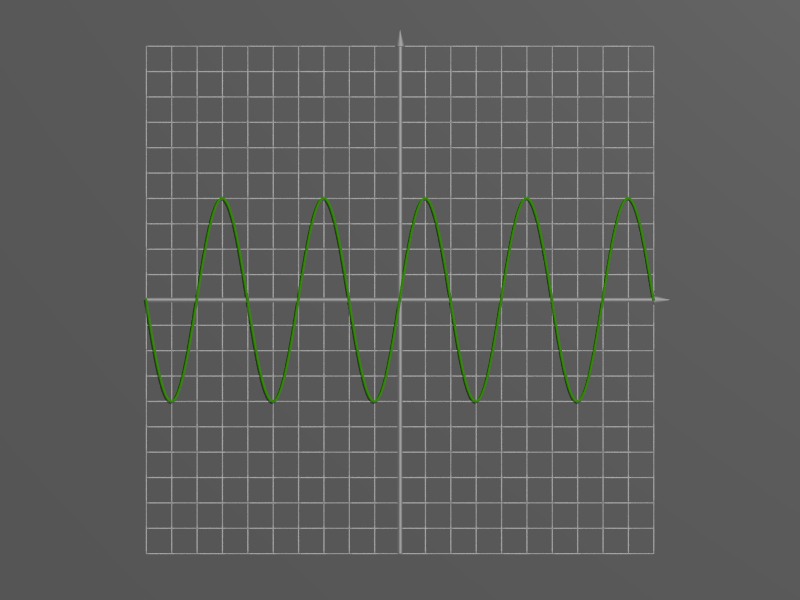
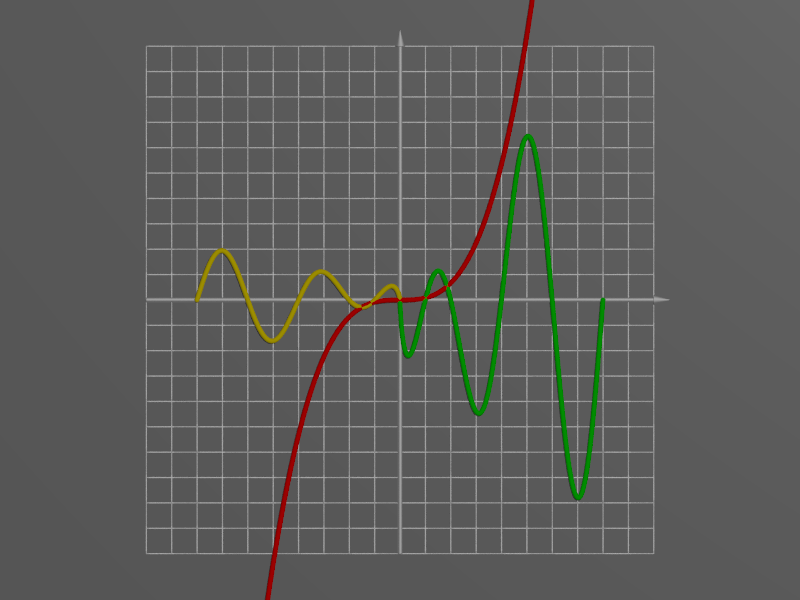
Function 'name'

diff --git a/examples/function2D.m b/examples/function2D.m
@@ -93,12 +93,22 @@ tex_grid_blue  = pov.declare("tex_grid_blue",  pov.texture('pigment', [0.0 0.0 1
 pov.grid_2D('width', 20, 'height', 20, 'rotate', [90 0  0], 'translate', [0 0 0]);
 
 % Objects textures
-tex_red   = pov.declare("tex_red",   pov.texture('pigment', [1 0 0], 'finish', 'phong 1 reflection {0.10 metallic 0.4}'));
-tex_green = pov.declare("tex_green", pov.texture('pigment', [0 1 0], 'finish', 'phong 1 reflection {0.10 metallic 0.4}'));
-tex_blue  = pov.declare("tex_blue",  pov.texture('pigment', [0 0 1], 'finish', 'phong 1 reflection {0.10 metallic 0.4}'));
-tex_pink  = pov.declare("tex_pink",  pov.texture('pigment', [8 2 3], 'finish', 'phong 1 reflection {0.10 metallic 0.4}'));
+% tex_red   = pov.declare("tex_red",   pov.texture('pigment', [1 0 0], 'finish', 'phong 1 reflection {0.10 metallic 0.4}'));
+% tex_green = pov.declare("tex_green", pov.texture('pigment', [0 1 0], 'finish', 'phong 1 reflection {0.10 metallic 0.4}'));
+% tex_blue  = pov.declare("tex_blue",  pov.texture('pigment', [0 0 1], 'finish', 'phong 1 reflection {0.10 metallic 0.4}'));
+% tex_pink  = pov.declare("tex_pink",  pov.texture('pigment', [8 2 3], 'finish', 'phong 1 reflection {0.10 metallic 0.4}'));
 
-pov.function2D('funcion', '4 * sin(X * pi /2)', 'min_x', -10, 'max_x', 10, 'color', [0.1 0.8 0.0], 'translate', [0 0 -0.2]);
+pov.function2D('name', 'fgreen', 'funcion', '4 * sin(X * pi/2) * ln(X)', ...
+               'min_x', 0, 'max_x', 8, 'color', [0 0.8 0.0], ...
+               'width', 0.1, 'translate', [0 0 -0.1]);
+
+pov.function2D('name', 'fyellow', 'funcion', 'sin(X * pi/2) * ln(-X)', ...
+               'min_x', -8, 'max_x', 0, 'color', [1 0.8 0.0], ...
+               'width', 0.1, 'translate', [0 0 -0.1]);
+
+pov.function2D('name', 'fred', 'funcion', 'X * X * X / 12', ...
+               'min_x', -8, 'max_x', 8, 'color', [1 0.0 0.0], ...
+               'width', 0.1, 'translate', [0 0 -0.1]);
 
 % pov.difference_begin();
 %     %pov.sphere();

diff --git a/pov.m b/pov.m
@@ -318,6 +318,7 @@ classdef pov < handle
         function function2D(o, varargin)
             % Parse
             p = inputParser;
+            addParameter(p,'name',    'f',             @o.check_string);            
             addParameter(p,'funcion', 'X',             @o.check_string);
             addParameter(p,'min_x',    -1,             @o.check_float);
             addParameter(p,'max_x',     1,             @o.check_float);
@@ -328,6 +329,7 @@ classdef pov < handle
             addParameter(p,'translate', [0 0 0],       @o.check_vector3);
             parse(p,varargin{:});
 
+            name      = p.Results.name;
             func      = p.Results.funcion;
             min_x     = p.Results.min_x;
             max_x     = p.Results.max_x;
@@ -338,13 +340,11 @@ classdef pov < handle
             translate = p.Results.translate;
             
             % Write
-            fprintf(o.fh,['#declare f = function(X) { %s }\n'...
-                          'union {plot_function(%0.2f, %0.2f, f, %0.2f, <%0.1f, %0.1f, %0.1f0>)\n'...
+            fprintf(o.fh,['#declare %s = function(X) { %s }\n'...
+                          'union {plot_function(%0.2f, %0.2f, %s, %0.2f, <%0.1f, %0.1f, %0.1f0>)\n'...
                           '        scale<%0.2f, %0.2f, %0.2f> rotate<%0.2f, %0.2f, %0.2f> translate<%0.2f, %0.2f, %0.2f> }\n\n'],...
-                          func,...
-                          min_x, max_x,...
-                          width,...
-                          color(1), color(2), color(3), ...
+                          name, func,...
+                          min_x, max_x, name, width, color(1), color(2), color(3), ...
                           scale(1), scale(2), scale(3), rotate(1), rotate(2), rotate(3), translate(1), translate(2), translate(3));
             % Preview
             % TODO
